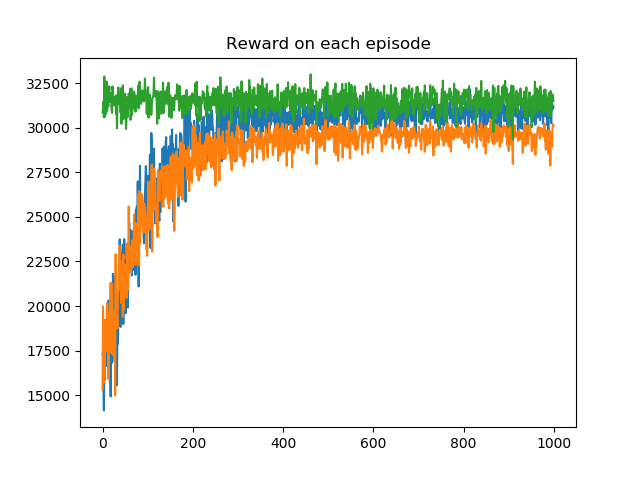
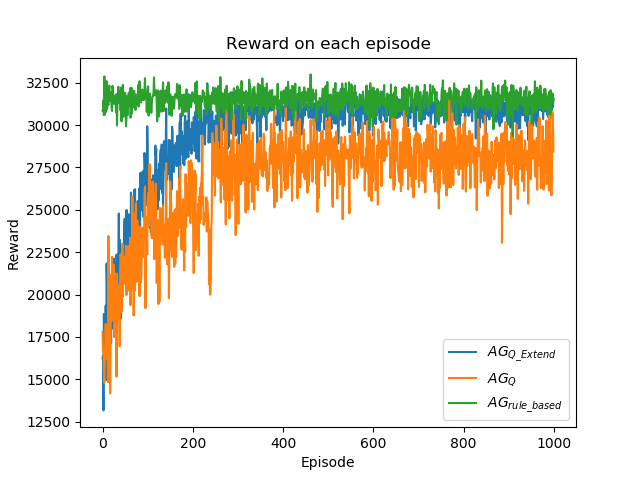
Finalize code and update README file

diff --git a/main.py b/main.py
@@ -1,3 +1,14 @@
+"""
+Author : Tham Yik Foong
+Student ID : 20200786
+Project title : Playing Stylised Blackjack with Q-learning
+
+Academic integrity statement :
+I, Tham Yik Foong, have read and understood the School's Academic Integrity Policy, as well as guidance relating to
+this module, and confirm that this submission complies with the policy. The content of this file is my own original
+work, with any significant material copied or adapted from other sources clearly indicated and attributed.
+"""
+
 import numpy as np
 from blackjack_env import Blackjack as env
 from agent_q_extend import Agent_Q_Extend as ag_q_extend
@@ -10,23 +21,27 @@ deck_number = 5  # number of deck shuffle together
 num_episode = 1000  # number of episode
 
 
-def plot_result(reward_lists):
+def plot_result(reward_tuples):
     """
     plotting rewards agent got on each episode
     """
-    for reward_list in reward_lists:
-        plt.plot(reward_list)
+    for index, reward_tuples in enumerate(reward_tuples):
+        name, reward_list = reward_tuples
+        plt.plot(reward_list, label=name)
     plt.title("Reward on each episode")
+    plt.legend()
+    plt.ylabel("Reward")
+    plt.xlabel("Episode")
     plt.savefig("{}.png".format("Reward on each episode"))
     plt.show()
     plt.close()
 
 
-def print_q_table(path):
+def print_q_table(np_path, csv_path):
     """
     printing Q table of agent showing greedy action agent will take on each state
     """
-    Q_table = np.load(path)
+    Q_table = np.load(np_path)
     possible_state = [i for i in range(2, 22)]
     possible_action = ['h', 's']
     possible_dis = ['e low cards', 'more low cards', 'same amount', 'more high cards', 'e high cards']
@@ -37,6 +52,7 @@ def print_q_table(path):
             pd_Q_table[j][i] = possible_action[np.argmax(Q_table[val_index, dis_index, :])]
 
     print(pd_Q_table)
+    pd_Q_table.to_csv(csv_path)
 
 
 def agent_Q_extend():
@@ -63,7 +79,8 @@ def agent_Q_extend():
         agent.update_epsilon_decay(i, num_episode)  # update agent epsilon
         blackjack.reset()  # reset Blackjack environment
     agent.save_Q_table('q_table_q_extend.npy')
-    print("last reward for Agent Q Extend is {}".format(reward_list[-1]))
+    mean_total_reward = np.ceil(np.mean(reward_list[-101:-1]))
+    print("Mean of total reward of the last 100 episodes for Agent Q Extend is {}".format(mean_total_reward))
     return reward_list
 
 
@@ -73,7 +90,7 @@ def agent_Q():
     :return: list of reward on each episode
     """
     blackjack = env(deck_number)
-    agent = ag_q(1, 0.2, 0.2, 0.01)
+    agent = ag_q(1, 0.2, 1, 10)
     reward_list = []
 
     for i in range(num_episode):
@@ -86,10 +103,11 @@ def agent_Q():
             agent.update_Q_table(current_state, action, reward, new_state)  # update state-action pair
             current_state = new_state
         reward_list.append(blackjack.total_reward)
-        agent.update_epsilon_decay(i)
+        agent.update_epsilon_decay(i, num_episode)
         blackjack.reset()
     agent.save_Q_table('q_table_q.npy')
-    print("last reward for Agent Q is {}".format(reward_list[-1]))
+    mean_total_reward = np.ceil(np.mean(reward_list[-101:-1]))
+    print("Mean of total reward of the last 100 episodes for Agent Q is {}".format(mean_total_reward))
     return reward_list
 
 
@@ -113,7 +131,8 @@ def agent_rule_based():
             current_state = new_state
         reward_list.append(blackjack.total_reward)
         blackjack.reset()
-    print("last reward for Agent rule based is {}".format(reward_list[-1]))
+    mean_total_reward = np.ceil(np.mean(reward_list[-101:-1]))
+    print("Mean of total reward of the last 100 episodes for Agent rule based is {}".format(mean_total_reward))
     return reward_list
 
 
@@ -121,5 +140,10 @@ if __name__ == '__main__':
     agent_q_extend_rl = agent_Q_extend()  # training Agent Q Extend
     agent_q_rl = agent_Q()  # training Agent Q
     agent_rule_based_rl = agent_rule_based()  # training Agent rule based
-    plot_result([agent_q_extend_rl, agent_q_rl, agent_rule_based_rl])  # plot agent's rewards on each episode
-    print_q_table("q_table_q_extend.npy")  # print Q table of agent showing greedy action agent will take on each state
+    reward_tuples = [('$AG_{Q\_Extend}$', agent_q_extend_rl),
+                     ('$AG_{Q}$', agent_q_rl),
+                     ('$AG_{rule\_based}$', agent_rule_based_rl)]
+    plot_result(reward_tuples)  # plot agent's rewards on each episode
+    # print Q table of agent showing greedy action agent will take on each state
+    print_q_table("q_table_q_extend.npy", "Q_table_q_extend.csv")
+    print_q_table("q_table_q.npy", "Q_table_q.csv")

diff --git a/agent_q.py b/agent_q.py
@@ -1,3 +1,14 @@
+"""
+Author : Tham Yik Foong
+Student ID : 20200786
+Project title : Playing Stylised Blackjack with Q-learning
+
+Academic integrity statement :
+I, Tham Yik Foong, have read and understood the School's Academic Integrity Policy, as well as guidance relating to
+this module, and confirm that this submission complies with the policy. The content of this file is my own original
+work, with any significant material copied or adapted from other sources clearly indicated and attributed.
+"""
+
 import numpy as np
 import random
 
@@ -41,8 +52,8 @@ class Agent_Q:
         else:
             return self.possible_action[np.argmax(self.Q_table[val_index, dis_index, :])]
 
-    def update_epsilon_decay(self, episode):
-        self.epsilon = self.min_epsilon + (self.max_epsilon - self.min_epsilon) * np.exp(-self.epsilon_decay * episode)
+    def update_epsilon_decay(self, episode, total_episode):
+        self.epsilon = self.min_epsilon + (self.max_epsilon - self.min_epsilon) * np.exp(-self.epsilon_decay * episode / total_episode)
 
     def save_Q_table(self, path):
         np.save(path, self.Q_table)

diff --git a/agent_rule_based.py b/agent_rule_based.py
@@ -1,3 +1,14 @@
+"""
+Author : Tham Yik Foong
+Student ID : 20200786
+Project title : Playing Stylised Blackjack with Q-learning
+
+Academic integrity statement :
+I, Tham Yik Foong, have read and understood the School's Academic Integrity Policy, as well as guidance relating to
+this module, and confirm that this submission complies with the policy. The content of this file is my own original
+work, with any significant material copied or adapted from other sources clearly indicated and attributed.
+"""
+
 class Agent_rule_based:
     """
     Rule based Agent that only perform 'hit' when card value is below 12 on Blackjack environment

diff --git a/agent_q_extend.py b/agent_q_extend.py
@@ -1,3 +1,14 @@
+"""
+Author : Tham Yik Foong
+Student ID : 20200786
+Project title : Playing Stylised Blackjack with Q-learning
+
+Academic integrity statement :
+I, Tham Yik Foong, have read and understood the School's Academic Integrity Policy, as well as guidance relating to
+this module, and confirm that this submission complies with the policy. The content of this file is my own original
+work, with any significant material copied or adapted from other sources clearly indicated and attributed.
+"""
+
 import numpy as np
 import random
 

diff --git a/blackjack_env.py b/blackjack_env.py
@@ -1,3 +1,14 @@
+"""
+Author : Tham Yik Foong
+Student ID : 20200786
+Project title : Playing Stylised Blackjack with Q-learning
+
+Academic integrity statement :
+I, Tham Yik Foong, have read and understood the School's Academic Integrity Policy, as well as guidance relating to
+this module, and confirm that this submission complies with the policy. The content of this file is my own original
+work, with any significant material copied or adapted from other sources clearly indicated and attributed.
+"""
+
 import numpy as np
 
 

diff --git a/README.md b/README.md
@@ -1,2 +1,65 @@
 # RL-Blackjack
-Paper and project for MLis 
+
+## Group Information
+
+Name : Tham Yik Foong (20200786) and Qi Fang Rui
+
+Course : Machine Learning in Science MSC
+
+Affiliation : School of Physics and Astronomy, University of Nottingham.
+
+## Overview
+
+This is a code implementation of project and paper - RL-Blackjack
+
+This project address the task assigned to train an agent to play a stylised version of Blackjack using Q-learning algorithm. Reinforcement learning algorithm usually performs generally well in probabilistic environment; technique such as Q-learning algorithm is specifically handy for environment with small state-action spaces. Therefore, we have implemented Q-learning as basis for our agent while also adding some extra capabilities to aid the performance of our agent. 
+
+To compare the performance, we compare our agent with a Q-learning agent without extra capabilities and a rule-based agent. We discover that even our agent can perform better than a basic Q-learning agent, but it only performs equally as a rule-based agent.
+
+Paper included for implementation details.
+
+## Project setting
+
+Default Hyper-parameter setting
+
+| Hyper-parameter | Default Value |
+| --- | --- |
+| Number of decks shuffle together | 5 |
+| Episode | 1000 |
+| Epsilon (Exploration factor) | 1 |
+| Learning Rate | 0.2 |
+| Epsilon Decay Rate | 10 |
+| Max Epsilon | 1 |
+| Min Epsilon | 0 |
+| Replay Buffer length | 20 |
+| Replay Buffer batch | 5 |
+
+## User Guide
+
+Simply run main.py to run all 3 agents, agent's Q-table will be saved as a csv file and numpy array file.
+Running blackjack_env.py to play stylised Blackjack without agent.
+
+## Performance
+
+[Note]
+*AG<sub>Q_Extend</sub>* is Q-learning agent with extend capabilities
+*AG<sub>Q</sub>* is Q-learning agent without the capability of divided episode and
+experience replay
+*AG<sub>rule_based</sub>* is a rule-based agent
+
+Below are a graph showing the reward gained from our agents on every episode:
+
+<img src="Reward on each episode.png" alt="Reward on each episode">
+
+Below table shows mean of total reward of each episode from test episodes:
+
+| Agent | Mean of total reward |
+| --- | --- |
+| *AG<sub>Q_Extend</sub>* | 30848 |
+| *AG<sub>Q</sub>* | 28160 |
+| *AG<sub>rule_based</sub>* | 31422 |
+
+Q-table of *AG<sub>Q_Extend</sub>* (left) and Q-table of *AG<sub>Q</sub>* (right) at the end of the training below
+
+<img src="q_table_q_extend.PNG">
+<img src="q_table_q.PNG">
